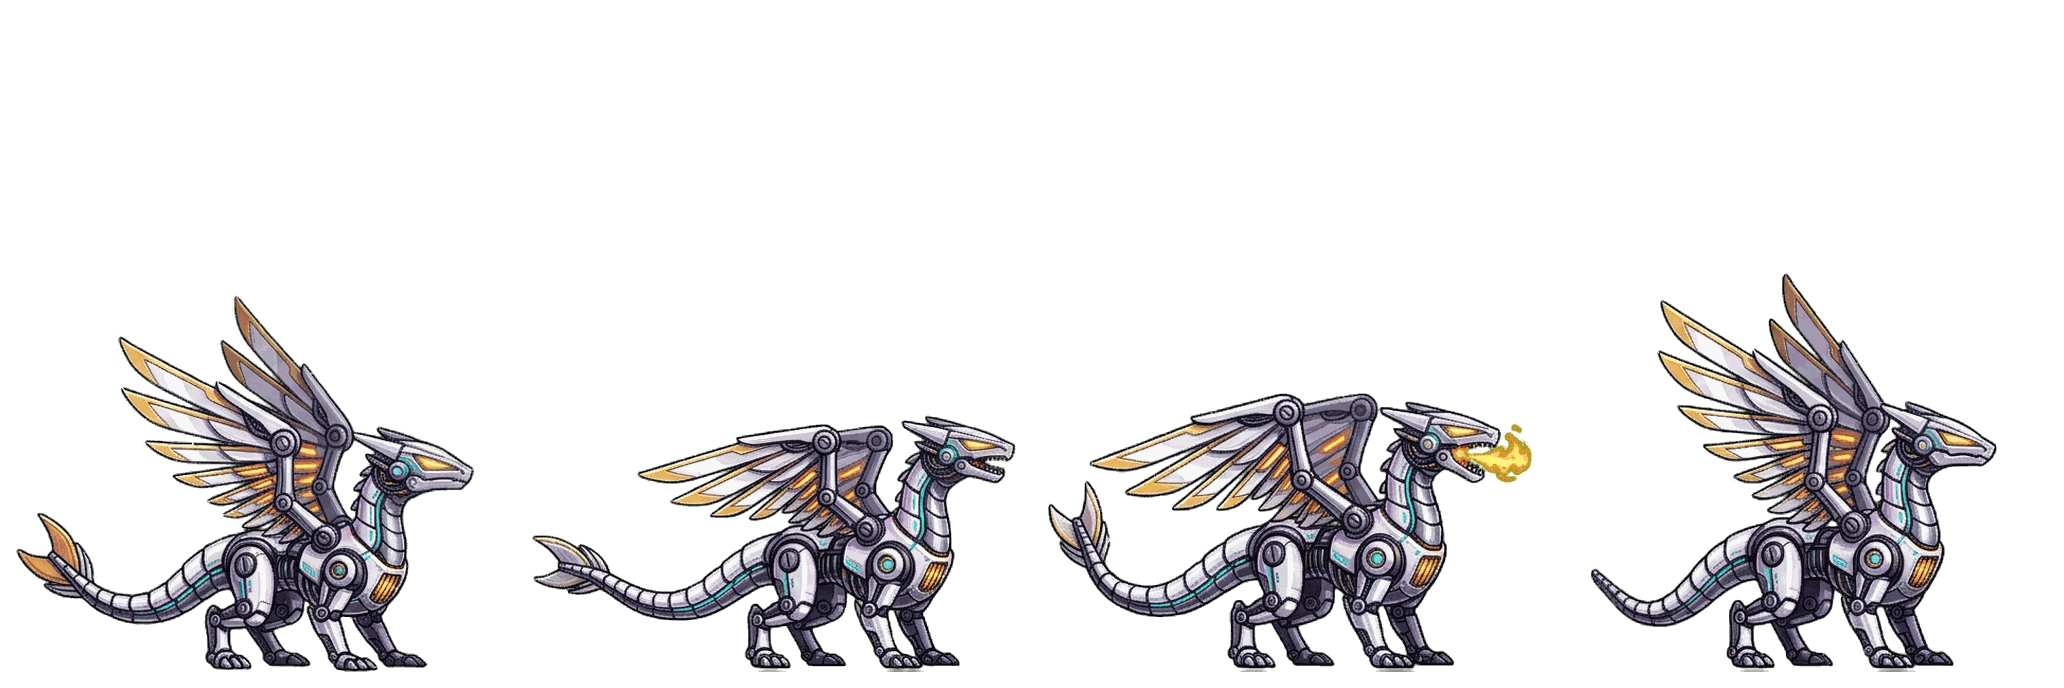
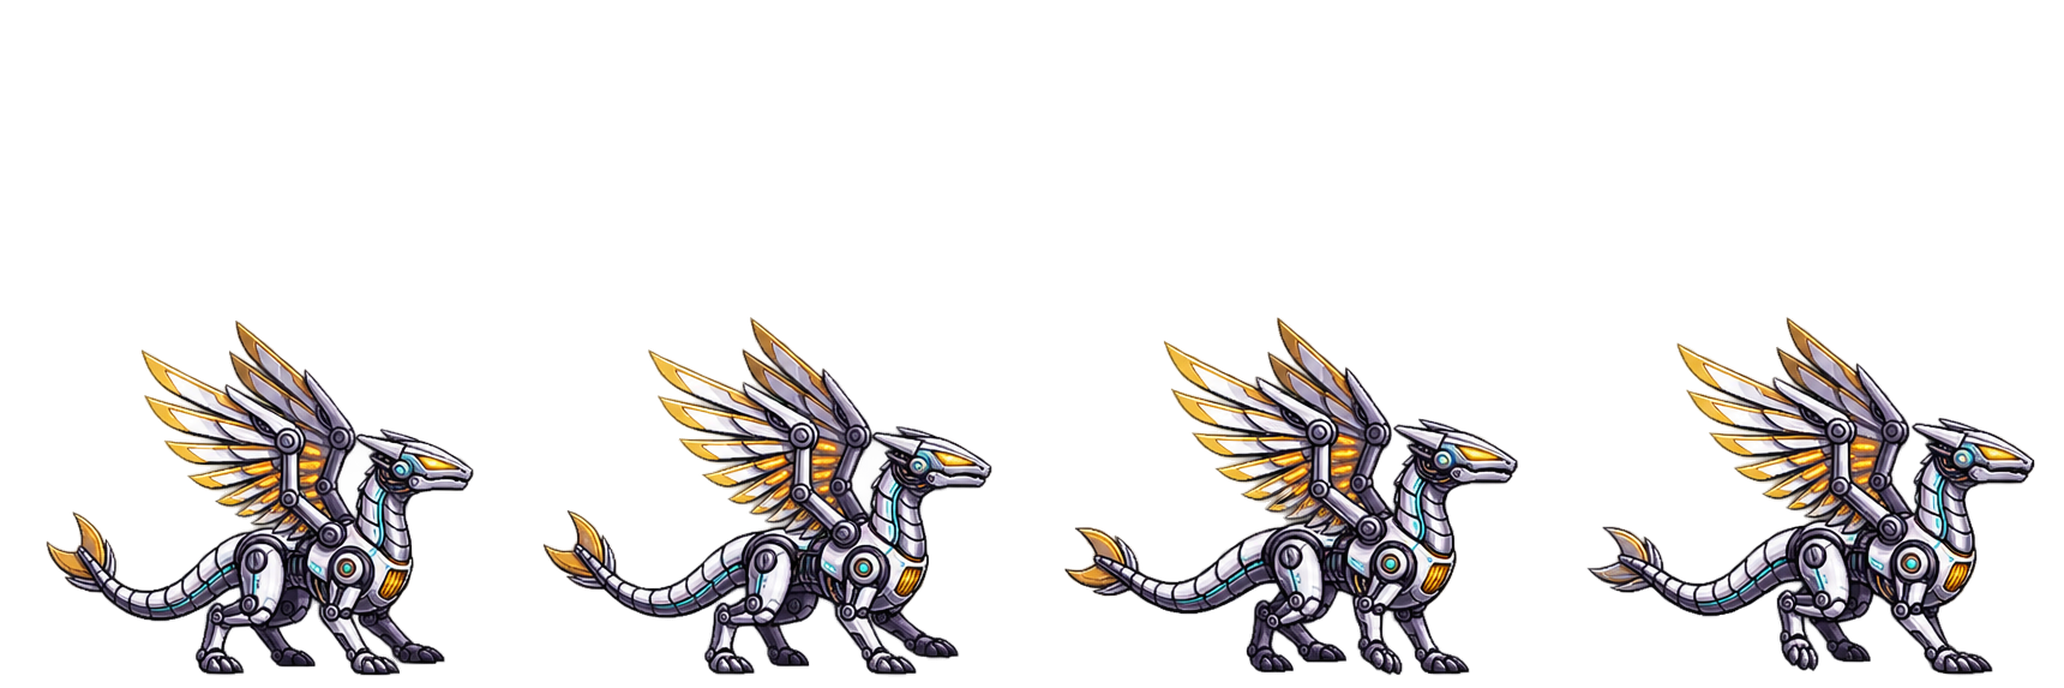
Round 282: the Map button opens the full map; every world walked; the Sunfeather Drake walks (#62)
* Round 282: the Map button opens the full map

Claude-Session: https://claude.ai/code/session_01XB2RMCaJ1aVVtBjSNk3FhS

* Round 282: the Sunfeather Drake walks; every world walked

Claude-Session: https://claude.ai/code/session_01XB2RMCaJ1aVVtBjSNk3FhS

---------

diff --git a/index.html b/index.html
@@ -553,7 +553,7 @@ if(localStorage.getItem(SAVE_KEY))$('resumeBtn').classList.remove('hidden');
 addEventListener('resize',()=>{fitWorld();fitMap();renderTalentConnectors()});fitWorld();
 requestAnimationFrame(loop);
 </script>
-<script src="assets/elaris-wildlife.js?v=round280"></script>
+<script src="assets/elaris-wildlife.js?v=round282"></script>
 <script src="assets/solaris-data.js?v=round232"></script>
 <script src="assets/expansion.js?v=round280"></script>
 <script src="assets/encounter-depth.js?v=round280"></script>
@@ -596,7 +596,7 @@ requestAnimationFrame(loop);
 <script src="assets/touch-controls.js?v=round275"></script>
 <script src="assets/map-terrain.js?v=round276"></script>
 <script src="assets/enemy-labels.js?v=round229"></script>
-<script src="assets/layout-polish.js?v=round279"></script>
+<script src="assets/layout-polish.js?v=round282"></script>
 <script src="assets/cycle-card.js?v=round242"></script>
 <script src="assets/sky-storm.js?v=round237"></script>
 <script src="assets/status-dots.js?v=round237"></script>

diff --git a/assets/elaris-wildlife.js b/assets/elaris-wildlife.js
@@ -45,7 +45,7 @@ const cityMonsterArt=monsterArt;
 // Round 196: a sheet name with a folder ('sky/zenith-roc') is read from assets/monsters/<folder>/;
 // big:true draws it in the larger boss box.
 // Round 200: bump SPRITE_VERSION when sheets are re-cut, so browsers fetch the new images.
-const SPRITE_VERSION='280';
+const SPRITE_VERSION='282';
 function wildlifeSheetUrl(sheet){return 'assets/monsters/'+(sheet.includes('/')?sheet:'elaris/'+sheet)+'.png?v='+SPRITE_VERSION}
 monsterArt=function(id){const animal=ELARIS_WILDLIFE[id]||WILDLIFE_ART[id];if(!animal)return cityMonsterArt(id);return '<span class="monster-sprite wildlife-sprite'+(animal.big?' bloom-tyrant':'')+'" role="img" aria-label="'+animal.name+'" style="background-image:url('+wildlifeSheetUrl(animal.sheet)+');--wildlife-cycle:'+animal.cycle+'"></span>'};
 // Round 249: a boss node's sprite box was square (142px, sized for Neon Aftermath's boss pictures), which

diff --git a/assets/layout-polish.js b/assets/layout-polish.js
@@ -121,3 +121,11 @@ renderBattle = function () {
   document.body.append(t);
   const st = document.createElement('style'); st.textContent = '#toast{position:fixed!important;z-index:500!important}'; document.head.append(st);
 })();
+// Round 282: the Map button was bound in expansion.js to the map function of that moment, before exploration.js and
+// map-terrain.js wrapped it (street terrain, fog, zoom, completion), so clicking Map showed the old box-only map
+// while the M key showed the full one. The nav buttons now call whatever the function is when clicked.
+(function rebindNav() {
+  if (typeof $ !== 'function') return;
+  const bind = (id, fn) => { const b = $(id); if (b) b.onclick = () => fn(); };
+  bind('mapBtn', () => showMap()); bind('deckBtn', () => showDeck()); bind('charBtn', () => showCharacter());
+})();

diff --git a/CHANGES.md b/CHANGES.md
@@ -3496,6 +3496,26 @@ Playtest of Neon Aftermath's three relics (Moon Lens 5,4; Ember Sigil 5,7; Briar
 - Talent descriptions list the per-rank values. Tests updated: round76, chronospire,
   talent-matrix, card-variety, plating-armor.
 
+## Round 282: the Map button opens the full map; every world walked; the Sunfeather Drake walks
+
+- The owner: "the map often shows up like this". It was the old map: room boxes on a dark background, with no
+  streets, no zoom bar and no waypoint list.
+- `expansion.js` (and `combined-rooms.js`) bound the Map button to the map function of that moment
+  (`$('mapBtn').onclick = showMap`). `exploration.js` (points of interest, Nexus Waypoints, completion) and
+  `map-terrain.js` (street terrain, fog, zoom, the Round 276 diagonals and phone labels) wrap it later, so clicking
+  Map skipped all of them. The M key calls the current `showMap()`, which is why it only happened "often".
+- `layout-polish.js` now binds the Map, Deck and Character buttons to call the current function when clicked. Deck
+  had already been rebound this way in Round 233; Character was unaffected but is covered for future wrappers.
+- New `tests/nav-buttons.test.cjs`.
+- **Every world walked.** `tests/playtest-walk.cjs` walked all five other worlds with tap routes, after Neon Aftermath in
+  Round 281. Solaris, Sky Isles, Elaris and Vespera: 51 rooms each, about 375 crossings, 61-66 item routes.
+  Chronospire: 54 rooms, 387 crossings, 61 item routes. Every room reached, with no problems and no page errors.
+- **The Sunfeather Drake walks.** The owner sent an eight-frame grounded walk for the Sky Isles' Sunfeather Drake
+  (`skyDrake`, art `skyDrakeArt`). The source strip is `assets/monsters/sky/src/sunfeather-drake-walk8.png`.
+  - Anchored on the body with one foot baseline, so frames 1, 3, 5 and 7 are cut with one shared window, centred on
+    the body (the drake sits right of centre). The result replaces `assets/monsters/sky/sunfeather-drake.png`.
+  - `SPRITE_VERSION` 282. New `tests/sunfeather-drake.test.cjs`.
+
 ## Round 281: the Character screen; the merchant and Cardsmith say hello
 
 - **Character screen** (owner: "fix the character screen"):

diff --git a/CLAUDE.md b/CLAUDE.md
@@ -4,7 +4,7 @@ Aethercede is a browser card-battler/exploration game in vanilla JS with no
 build step. Open `index.html` directly. `compendium.html` is the card
 gallery; `arena.html` is a standalone prototype and is left untouched.
 
-**Read `CHANGES.md` first.** Every round of work (Round 1 to Round 281) is
+**Read `CHANGES.md` first.** Every round of work (Round 1 to Round 282) is
 logged there with its reasoning. Add a new `## Round N:` entry for each
 change set.
 
